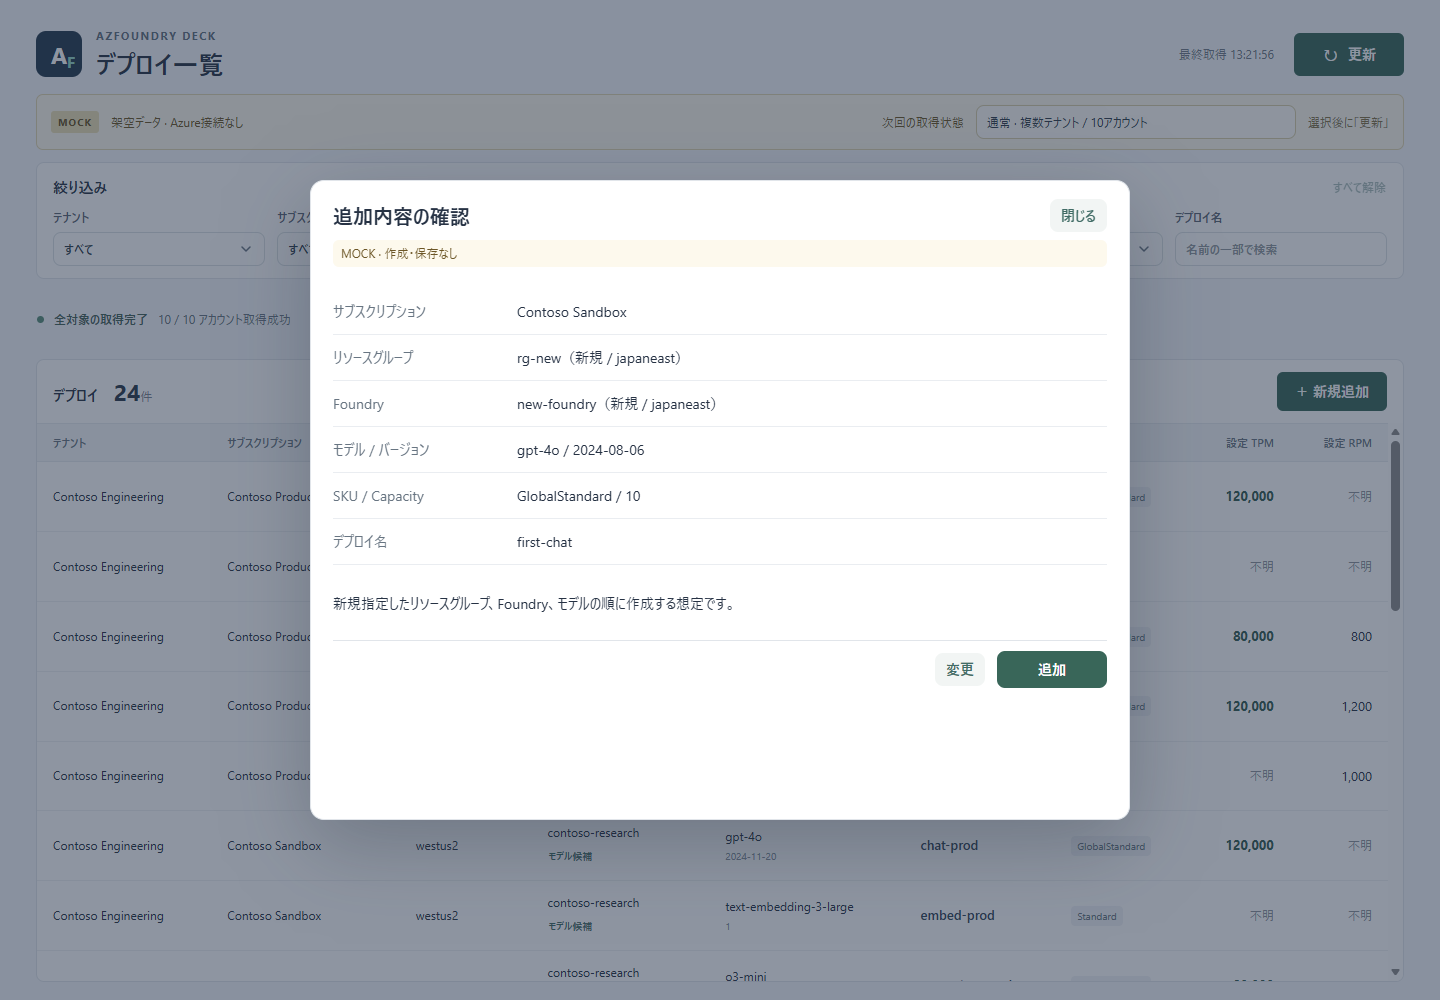
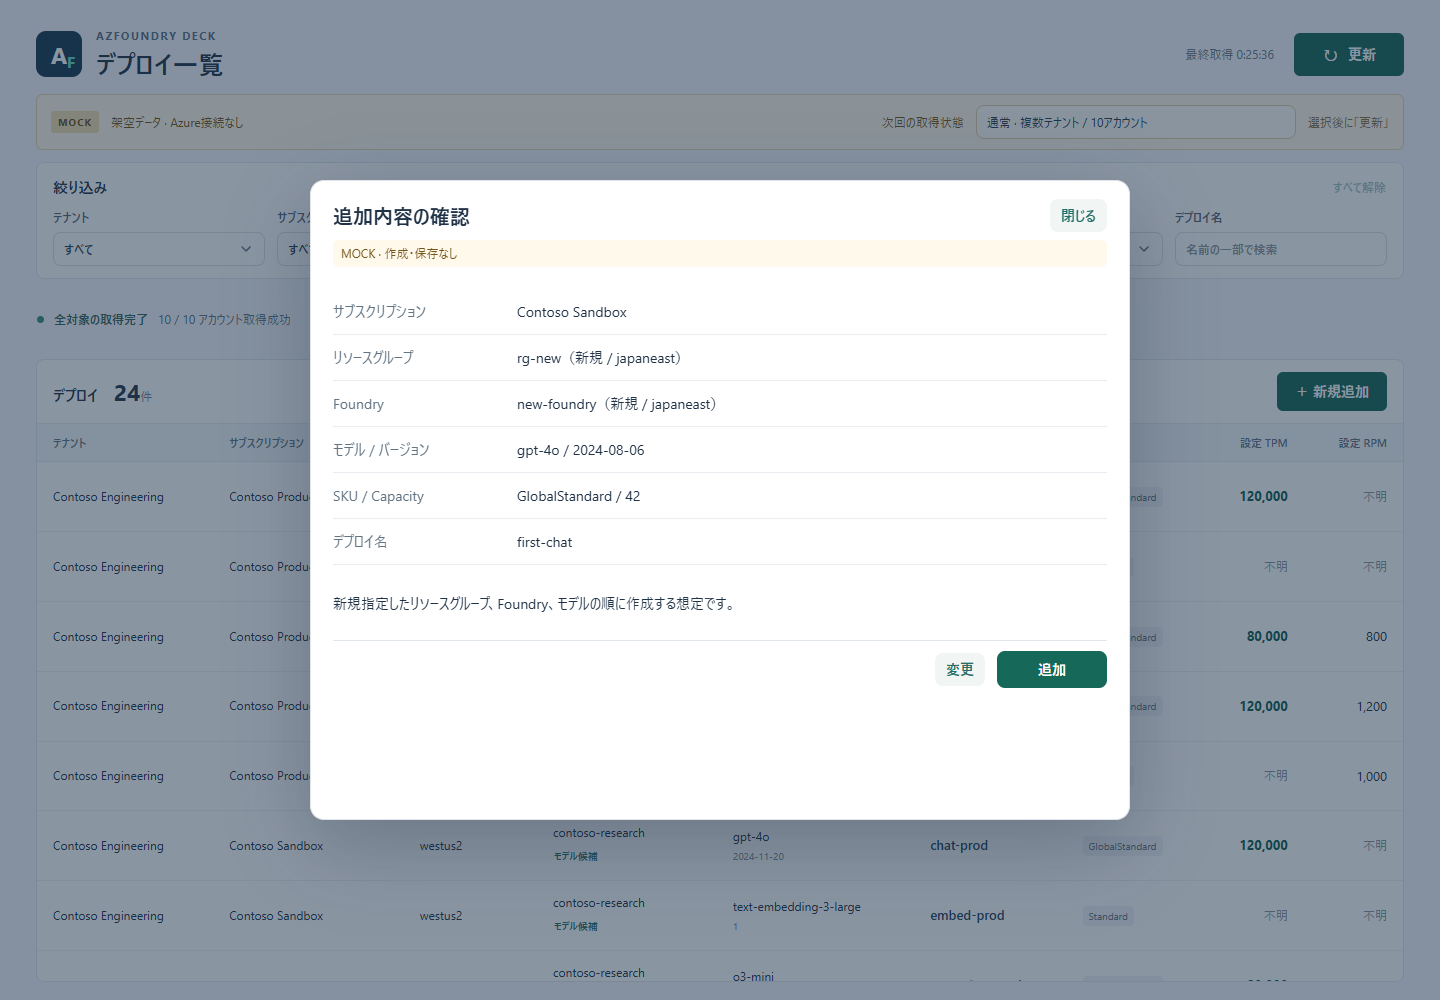
Document U1 review and U4/U5 design findings

diff --git a/frontend/tests/add-model.browser.js b/frontend/tests/add-model.browser.js
@@ -80,6 +80,10 @@ async page => {
   assert(await field("モデル").isDisabled(), "取得失敗時に設定を無効化");
   await field("モデル取得の状態").selectOption("success");
   await button("モデル候補を再試行").click();
+  await chooseModel();
+  await button("確認").click();
+  assert((await page.locator(".add-summary").textContent()).includes("contoso-chat-prod（既存"), "デプロイありFoundryの選択確認");
+  await button("変更").click();
   await field("Foundry").selectOption("contoso-first-model");
   await page.getByText("モック：モデル取得の再現", { exact: true }).click();
   await chooseModel();
@@ -95,11 +99,24 @@ async page => {
   assert(await button("確認").isEnabled(), "デプロイ名有効の許可");
   await checkStableValidation("デプロイ名", "chat-prod", "a");
   await chooseModel();
+  await field("バージョン").selectOption("2024-11-20");
+  await field("SKU").selectOption("Standard");
+  await field("Capacity").fill("42");
   await page.screenshot({ path: "docs/verification/add-model-existing.png" });
   await button("確認").click();
   assert((await page.locator(".add-summary").textContent()).includes("contoso-first-model（既存"), "0件Foundryの選択");
   await button("変更").click();
-  assert(await field("デプロイ名").inputValue() === "first-chat", "確認から戻る入力保持");
+  assert(
+    await field("サブスクリプション").inputValue() === "subscription-001" &&
+    await field("リソースグループ").inputValue() === "rg-production" &&
+    await field("Foundry").inputValue() === "contoso-first-model" &&
+    await field("モデル").inputValue() === "gpt-4o" &&
+    await field("バージョン").inputValue() === "2024-11-20" &&
+    await field("SKU").inputValue() === "Standard" &&
+    await field("Capacity").inputValue() === "42" &&
+    await field("デプロイ名").inputValue() === "first-chat",
+    "確認から戻ると全設定（Capacity含む）を保持"
+  );
   await field("サブスクリプション").selectOption("subscription-002");
   assert(await field("リソースグループ").inputValue() === "" && await field("Foundry").inputValue() === "", "上位変更で配置先解除");
   await button("Foundryを新規作成").click();
@@ -123,6 +140,15 @@ async page => {
     await field("新しいリソースグループ名").fill(valid);
     assert(await button("使用").isEnabled(), "RG有効名の許可");
   }
+  await field("新しいリソースグループ名").fill("rg-draft");
+  await button("戻る").click();
+  assert(
+    await field("新しいFoundry名").inputValue() === "new-foundry" &&
+    await field("リソースグループ").inputValue() === "" &&
+    await page.getByRole("option", { name: "rg-draft（新規作成予定）", exact: true }).count() === 0,
+    "RG入力から戻るとFoundry名を保持しRGを作成しない"
+  );
+  await button("リソースグループを新規作成").click();
   await field("新しいリソースグループ名").fill("rg-new");
   await page.screenshot({ path: "docs/verification/add-model-group.png" });
   await button("使用").click();
@@ -151,10 +177,33 @@ async page => {
   await button("Foundryを新規作成").click();
   await button("戻る").click();
   assert(await field("Foundry").inputValue() === "", "キャンセルでFoundryを作らない");
+  await button("Foundryを新規作成").click();
+  await field("新しいFoundry名").fill("discarded-foundry");
+  await button("使用").click();
+  await chooseModel();
+  await field("バージョン").selectOption("2024-11-20");
+  await field("SKU").selectOption("Standard");
+  await field("Capacity").fill("77");
+  await field("デプロイ名").fill("discarded-deploy");
+  await button("キャンセル").click();
+  await page.getByRole("dialog").waitFor({ state: "detached" });
+  await button("＋ 新規追加").click();
+  assert(
+    await field("サブスクリプション").inputValue() === "" &&
+    await field("リソースグループ").inputValue() === "" &&
+    await field("Foundry").inputValue() === "" &&
+    await field("モデル").inputValue() === "" &&
+    await field("バージョン").inputValue() === "" &&
+    await field("SKU").inputValue() === "" &&
+    await field("Capacity").inputValue() === "10" &&
+    await field("デプロイ名").inputValue() === "" &&
+    await page.getByRole("option", { name: "rg-direct（新規作成予定）", exact: true }).count() === 0,
+    "追加キャンセル後の再開で入力を破棄"
+  );
   await page.setViewportSize({ width: 1080, height: 720 });
   assert(await page.locator("dialog").evaluate(el => el.scrollWidth <= el.clientWidth), "ダイアログの横はみ出し");
   await page.keyboard.press("Escape");
   assert(await page.getByRole("dialog").count() === 0, "Escapeで閉じる");
   assert(errors.length === 0, errors.join("\n"));
-  return { passed: true, checks: ["model-loading-empty-error-retry-stale", "stable-validation-and-input-mode", "list-button-placement", "model-defaults", "deploy-name-validation", "resource-naming", "empty-foundry", "review-and-back", "subscription-reset", "nested-resource-creation", "mock-completion", "empty-list-entry", "direct-group-creation", "cancel", "responsive-and-escape"], pageErrors: errors };
+  return { passed: true, checks: ["model-loading-empty-error-retry-stale", "stable-validation-and-input-mode", "list-button-placement", "model-defaults", "deploy-name-validation", "resource-naming", "deployed-foundry-review", "empty-foundry", "review-and-back-all-settings", "subscription-reset", "group-cancel-preserves-foundry", "nested-resource-creation", "mock-completion", "empty-list-entry", "direct-group-creation", "cancel-reopen-resets", "cancel", "responsive-and-escape"], pageErrors: errors };
 }

diff --git a/PLAN.md b/PLAN.md
@@ -2,13 +2,13 @@
 
 本書は引き継ぎ時の進捗と次の作業の正本です。仕様・合意・検証結果は [プロジェクト定義](docs/project.md)、画面実装のルールは [frontend/src/AGENTS.md](frontend/src/AGENTS.md) を参照してください。
 
-## 1. 現在の到達点（2026-09-14）
+## 1. 現在の到達点（2026-09-15）
 
-**次は「モデルを追加する」仮UIの残りのシナリオを利用者と確認し、実処理へ移す前の設計（U4）に入る。実Azureでの作成処理にはまだ進まない。**
+**最新版モックを9250番で起動し、U1の全体動作合意を利用者へ依頼済み。回答待ちの間にU4・U5の読取調査と設計案を具体化する。実Azureでの作成・削除には進まない。**
 
 | 機能 | 実装・合意・検証の状態 |
 | --- | --- |
-| F1：アカウント横断のデプロイ一覧 | モック・実Azure読取を実装済み。2026-09-13に残件を[Issue #1](https://github.com/nuitsjp/azfoundry-deck/issues/1)へ移管してクローズ。今回の一覧UI簡潔化を含むheadless 13項目は合格。最後の共通フォーカス・選択欄CSS変更後にはF1全項目を再実行していない。 |
+| F1：アカウント横断のデプロイ一覧 | モック・実Azure読取を実装済み。2026-09-13に残件を[Issue #1](https://github.com/nuitsjp/azfoundry-deck/issues/1)へ移管してクローズ。2026-09-15、共通フォーカス・選択欄CSS変更後のheadless 13項目を再実行して合格。 |
 | F2：モデル候補参照 | 共通Goサービス・Azure ARM List Models・旧独立画面は実装済み。旧画面のモック9項目・実Azureサービス／画面は過去の実行で合格。今後はモデル追加の選択操作に位置づける。旧独立画面の承認を次の開始条件にしない。 |
 | F3：モデル追加 | RG・Foundry新規入力を含む仮UIのみ実装。モデル候補はフロントエンドの固定データを非同期で返し、既存のGo ModelServiceには未接続。作成・保存・一覧反映は行わない。2026-09-14に確認・完了ダイアログのボタン表記を簡潔化（変更／追加／確認／使用／戻る／閉じる）し、完了画面の右上「閉じる」を削除。同日、デプロイ名に入力検査（2〜64文字の半角英数字・アンダースコア・ハイフン・ピリオド）を追加。15項目は接続Edgeで再実行して合格。同日、利用者はボタン表記・デプロイ名検査・RGの1文字許容を合意。仮UI全体の通し確認は未完。 |
 | F3：既存デプロイの変更・削除 | 未実装。詳細ユースケースも未合意。 |
@@ -28,13 +28,15 @@
 
 | ID | 状態と内容 | 再開条件・扱い |
 | --- | --- | --- |
-| U1 | モデル追加仮UIは部分合意。2026-09-14にボタン表記、完了画面の右上「閉じる」削除、デプロイ名検査、RGの1文字許容を合意した。既存Foundryへの追加、空Foundryへの初回追加、Foundry新規追加、そこからのRG新規追加、候補の読込中・失敗・再試行の通し確認は記録なし。 | 次回は残りのシナリオ確認から再開する。F2独立画面への最終合意を別途求めない。 |
-| U2 | ネイティブWebView2、Windows IMEの実際のOFF切替、高コントラスト表示は未検証。入力モード属性とheadless画面は確認済み。 | ネイティブを操作・観測できる環境で確認。IME OFFを確認済みと報告しない。F1ネイティブ残件はIssue #1。 |
-| U3 | F1の実Deployment API複数ページ、別権限構成、許容性能、TPM/RPMのPortal照合はIssue #1へ移管済み。 | Issueの項目ごとの再開条件に従う。後続機能全体を止める条件にはしない。認証不能サブスクリプションは合意済み異常系で、再ログイン成功を要求しない。 |
-| U4 | 新規Foundryと候補取得の順序、費用、名前競合、部分成功・結果不明・再試行の扱い、実検証先が未確定。RG・Foundryのリージョンは現在3件の固定値で、実接続時にAzureから取得する前提で2026-09-14に了承を得た。 | 上記2・3で具体化してから実作成へ進む。現在のモックは実処理の成功を保証しない。 |
-| U5 | デプロイ名の命名規則が未合意。2026-09-14に暫定で2〜64文字の半角英数字・アンダースコア・ハイフン・ピリオドを実装したが、Azureの正式な下限・許可文字は未確認。同一Foundry内のデプロイ名重複検査も未実装で、固定候補に既存デプロイ名を持っていない。 | Azureの規則を確認して確定する。重複検査はU4の作成条件と併せて決める。RGの1〜90文字はAzureの規則どおりで、[Azureの命名規則](https://learn.microsoft.com/en-us/azure/azure-resource-manager/management/resource-name-rules)に基づく合意済みの挙動。 |
+| U1 | モデル追加仮UIは部分合意。2026-09-14のボタン表記・入力規則の合意を維持。2026-09-15、最新版を9250番で起動し、既存／0件Foundry、新規FoundryとRG、読込中・空・失敗・再試行、戻る・入力保持・キャンセルの確認依頼を提示。利用者の回答は未取得。 | [確認手順と合意状態](docs/project.md#f3-u1-review)に沿って帰席後の回答を記録する。自動検証の合格を全体動作合意に置き換えない。 |
+| U2 | F1のネイティブWebView2実接続は完了。Windows IMEの実際のOFF切替、高コントラスト表示は未検証。入力モード属性とheadless画面は確認済み。 | ネイティブを操作・観測できる環境で確認。IME OFFを確認済みと報告しない。F1ネイティブ確認の完了記録はIssue #1。 |
+| U3 | F1の実Deployment API複数ページと別権限構成はIssue #1の残件。許容性能は合意済み、TPM/RPMのPortal照合は完了。 | Issueの項目ごとの再開条件に従う。後続機能全体を止める条件にはしない。認証不能サブスクリプションは合意済み異常系で、再ログイン成功を要求しない。 |
+| U4 | [設計案](docs/project.md#f3-u4-design)を具体化済み・未合意。新規はリージョン候補取得、RG・Foundry作成、既存Go ModelServiceでの再検査、デプロイ作成の順。部分成功・中断・結果不明・再試行を記録。調査対象サブスクリプションは `fc7753ed-2e69-4202-bb66-86ff5798b8d5`。 | 作成順・残存資源・再開記録の方式、上書き競合防止、Foundry設定、費用・具体的実検証先・作成削除条件を確定し、必要なモックの動作合意後に実接続する。 |
+| U5 | [公式調査](docs/project.md#f3-u5-naming)実施済み。命名表にaccounts/deploymentsの行がなく、2025-09-01 OpenAPIにもデプロイ名の長さ・文字規則がないため正式規則は確定できていない。暫定UI規則の合意は維持。重複拒否は未実装。 | 正式仕様または承認後の境界検証で確定する。同一Foundry内の既存名を拒否する案をU4と合わせて合意し、条件付き作成の可否・競合を検証する。RGの1文字許容は再審議しない。 |
 
 ## 4. 再開手順と実装の所在
+
+Issue #1の再試行（2026-09-14〜15）：`80bd511`のWindowsビルド・既存テスト・実Azure読取は合格。項目3のネイティブ実接続と項目5の全11件のPortal TPM/RPM照合が完了し、項目4の現状性能と全対象表示継続も利用者が了承しました。残件は項目1の実継続ページと項目2の別RBAC構成です。2026-09-15、利用者は両項目をIssueに残して先へ進むことを了承しました。次はU1のモデル追加モック確認から再開します。詳細と再開条件は[検証記録](docs/project.md#f1-issue1-retry)を参照してください。Issue最新コメントが参照するF3作成実装・引継ぎファイルは、ローカルとリモートmainには存在しません。F3のその作業を再開する際は対応する作業ツリーの所在が必要です。
 
 - 標準起動：`mise run mock:browser` → `http://127.0.0.1:9245`。引き継ぎ時の最新版提示は別ポート `http://127.0.0.1:9250` で起動中。プロセスはセッション終了後も存在するとは限らない。
 - 9250番で再開する場合：`mise run build:browser` 後、PowerShellで `$env:AZFOUNDRY_MOCK='1'`、`$env:WAILS_SERVER_HOST='127.0.0.1'`、`$env:WAILS_SERVER_PORT='9250'` を設定し、`.\bin\azfoundry-deck-browser.exe` を実行する。
@@ -42,6 +44,6 @@
 - モック選択例：`Contoso Production` → `rg-production` → `contoso-first-model`（デプロイ0件）。状態再現は追加フォーム末尾の「モック：モデル取得の再現」。
 - 画面：[AddModel.tsx](frontend/src/AddModel.tsx)、[App.tsx](frontend/src/App.tsx)、[style.css](frontend/src/style.css)。追加用固定候補と遅延境界：[addModelMock.ts](frontend/src/addModelMock.ts)。
 - 既存F2取得：[共通サービス](internal/service/models.go)、[Azure境界](internal/azurego/provider.go)。新しい追加フォームとの接続は未実装。
-- 検証：`mise run test`。追加画面は `pwsh -NoProfile -File scripts/Test-F2Browser.ps1 -AddModel -Attach`。一覧は `mise run test:ui`。
-- Edge 153ではPlaywrightからのEdge起動が即座に異常終了する（終了コード3221225477）。headless・headedとも同じで、`@playwright/cli` 0.1.19へ更新しても解消しない。素のEdgeは正常に起動するため、原因はPlaywrightが渡す起動オプション側にある。回避として、Edgeの「Allow remote debugging for this browser instance」を有効にした起動済みEdgeへ `-Attach` で接続して検証する。F1・F2の各スクリプトのうち、`-Attach` を実装したのは `scripts/Test-F2Browser.ps1` だけで、`scripts/Test-F1Browser.ps1` は未対応。9245番を残す場合はビルド後に `pwsh -NoProfile -File scripts/Test-F1Browser.ps1 -Port 9249`。
-- 最新版の追加画面14項目は型検査・Windows serverビルドを含めて合格。引き継ぎ整理時に `mise run test`（Go、フロントエンド3テスト）を再実行して合格。実Azureの検証は今回再実行していない。
+- 検証：`mise run test`。追加画面は `pwsh -NoProfile -File scripts/Test-F2Browser.ps1 -AddModel`。一覧は `mise run test:ui`（再ビルドするため提示サーバーの実体を確認して終了する）。
+- 過去にはEdge 153のPlaywright起動が終了コード3221225477で失敗したが、2026-09-15の追加画面と一覧のheadless起動は成功した。原因・解消理由は未特定。自動検証は既存ユーザーセッションを使わずheadlessを既定とする。今回の既存Edge接続は `Could not connect to msedge` / `ECONNREFUSED ::1:9222` で失敗したが、自動検証を止めていない。提示サーバーを残したまま再ビルドせず検証する場合は `pwsh -NoProfile -File scripts/Test-F2Browser.ps1 -AddModel`、一覧は `pwsh -NoProfile -File scripts/Test-F1Browser.ps1 -Port 9249` を使う。
+- 2026-09-15、現行ソースの型検査・Windows serverビルド、追加画面18項目、一覧13項目、`mise run test`が合格。[確認結果](docs/project.md#f3-u1-review)。実Azureは指定サブスクリプションの認証とモデル候補の読取調査のみ実施し、作成・削除していない。
